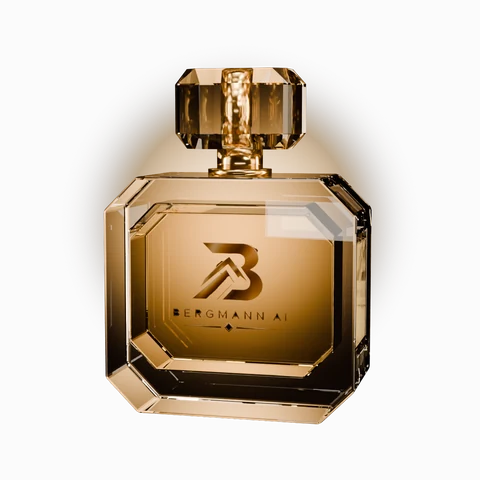
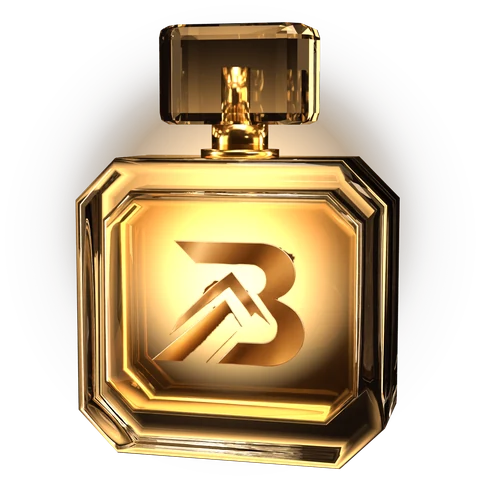
Vorlage Parfum: Flakons wie im Video (Glühen, Form, großes Zeichen)
Rückmeldung des Inhabers (26.11.2026): Die Flakons sollen so aussehen
wie im Video.

- Kartenflakons mit schräg abgeschnittenen Ecken und dicken, weich
  gerundeten Glaskanten, die golden glühen
- Füllung leuchtet von innen (in der Mitte am hellsten), satte Farben
  statt blasser Töne; kein heller Lichtreflex mehr über dem Zeichen
- Auf den Karten nur das B, groß wie das Zeichen im Video; klarer,
  höherer Kristallverschluss; Flakon füllt die Karte stärker aus
- Hero-Flakon und Standbild neu gerendert

Claude-Session: https://claude.ai/code/session_019nyCnVepV9BWLf1fmYvV7T

diff --git a/vorlagen/parfum/_werkzeuge/blender/flakon.py b/vorlagen/parfum/_werkzeuge/blender/flakon.py
@@ -15,22 +15,23 @@ from mathutils import Vector
 
 HERE = os.path.dirname(os.path.abspath(__file__))
 
-# Füllungen: Farbe für Volume Absorption (je heller ein Kanal, desto weniger wird er geschluckt) und Dichte
+# Füllungen: Absorption (je heller ein Kanal, desto weniger wird er geschluckt), Dichte, Leuchten von innen
+# (Farbe, Stärke). Das Leuchten ist in der Mitte am stärksten, wie die von hinten durchleuchteten Flakons im Video.
 LIQUIDS = {
-    'hero':    ((0.92, 0.36, 0.16), 20.0),
-    'or':      ((0.98, 0.76, 0.36), 11.0),
-    'noir':    ((0.60, 0.40, 0.26), 22.0),
-    'ambre':   ((0.97, 0.62, 0.26), 11.0),
-    'rose':    ((0.98, 0.66, 0.50), 9.0),
-    'fumee':   ((0.80, 0.70, 0.56), 9.0),
-    'lumiere': ((0.995, 0.95, 0.78), 6.0),
+    'hero':    ((0.88, 0.26, 0.10), 12.0, (1.0, 0.32, 0.06), 9.0),
+    'or':      ((0.95, 0.52, 0.16), 7.0, (1.0, 0.55, 0.16), 20.0),
+    'noir':    ((0.52, 0.32, 0.20), 16.0, (0.95, 0.38, 0.10), 5.0),
+    'ambre':   ((0.93, 0.42, 0.13), 8.0, (1.0, 0.42, 0.09), 17.0),
+    'rose':    ((0.97, 0.52, 0.42), 7.0, (1.0, 0.48, 0.32), 16.0),
+    'fumee':   ((0.78, 0.62, 0.46), 8.0, (0.95, 0.64, 0.38), 10.0),
+    'lumiere': ((0.99, 0.86, 0.58), 5.0, (1.0, 0.82, 0.48), 13.0),
 }
 FORMS = {
     # Breite, Höhe, Tiefe, Fasen vorn (Ecken der Vorderseite), Fasen senkrecht, Wände, Boden, Schulter, Füllstand
     'hero':  dict(w=0.78, h=1.12, d=0.38, cf=0.0, cv=0.06, wall=0.045, wfb=0.045, base=0.17, top=0.09, fill=0.95,
                   cap=(0.42, 0.28, 0.27), capcv=0.07, capbev=0.055, capcol=((0.93, 0.48, 0.28), 10.0)),
-    'karte': dict(w=0.96, h=0.9, d=0.42, cf=0.13, cv=0.035, wall=0.085, wfb=0.06, base=0.16, top=0.1, fill=0.95,
-                  cap=(0.5, 0.3, 0.32), capcv=0.08, capbev=0.06, capcol=((0.99, 0.95, 0.86), 2.0)),
+    'karte': dict(w=0.96, h=0.92, d=0.42, cf=0.0, cv=0.0, rund=0.13, wall=0.085, wfb=0.065, base=0.13, top=0.1, fill=0.97,
+                  cap=(0.48, 0.3, 0.3), capcv=0.06, capbev=0.035, capcol=((0.995, 0.97, 0.9), 1.0)),
 }
 
 
@@ -71,6 +72,35 @@ def prism(name, w, h, d, cf, cv, bevel=0.0, seg=2):
     return ob
 
 
+def round_prism(name, w, h, d, r, bevel=0.0, seg=4, corner_seg=1):
+    """Vorderseite als Rechteck mit runden Ecken (Radius r), in die Tiefe gezogen, Kanten weich gerundet."""
+    bm = bmesh.new()
+    r = min(r, w * 0.45, h * 0.45)
+    pts = []
+    for cx, cz, a0 in ((w/2 - r, -h/2 + r, -90), (w/2 - r, h/2 - r, 0), (-w/2 + r, h/2 - r, 90), (-w/2 + r, -h/2 + r, 180)):
+        for k in range(corner_seg + 1):
+            a = math.radians(a0 + 90 * k / corner_seg)
+            pts.append((cx + r * math.cos(a), cz + r * math.sin(a)))
+    vs = [bm.verts.new((x, -d/2, z)) for x, z in pts]
+    f = bm.faces.new(vs)
+    res = bmesh.ops.extrude_face_region(bm, geom=[f])
+    moved = [g for g in res['geom'] if isinstance(g, bmesh.types.BMVert)]
+    bmesh.ops.translate(bm, vec=Vector((0, d, 0)), verts=moved)
+    bmesh.ops.recalc_face_normals(bm, faces=bm.faces)
+    if bevel > 0:
+        # nur die Kanten von Vorder- und Rückseite runden (die Rundung der Ecken ist schon da)
+        rim = [e for e in bm.edges if abs(e.verts[0].co.y - e.verts[1].co.y) < 1e-6 and abs(abs(e.verts[0].co.y) - d/2) < 1e-6]
+        bmesh.ops.bevel(bm, geom=rim, offset=bevel, segments=seg, affect='EDGES', profile=0.5, clamp_overlap=True)
+    me = bpy.data.meshes.new(name)
+    bm.to_mesh(me)
+    bm.free()
+    ob = bpy.data.objects.new(name, me)
+    bpy.context.collection.objects.link(ob)
+    for p in me.polygons:
+        p.use_smooth = True
+    return ob
+
+
 def apply_boolean(target, cutter):
     mod = target.modifiers.new('cut', 'BOOLEAN')
     mod.operation = 'DIFFERENCE'
@@ -104,6 +134,41 @@ def glass(name, absorb=None, ior=1.5):
     return m
 
 
+def liquid(name, spec, half):
+    """Füllung: klare Oberfläche (Brechung), im Volumen Absorption und ein Leuchten, das zur Mitte zunimmt."""
+    absorb, dens, glow, strength = spec
+    m = glass(name, absorb=None, ior=1.36)
+    nt = m.node_tree
+    out = nt.nodes['Material Output']
+    vab = nt.nodes.new('ShaderNodeVolumeAbsorption')
+    vab.inputs['Color'].default_value = (*absorb, 1)
+    vab.inputs['Density'].default_value = dens
+    em = nt.nodes.new('ShaderNodeEmission')
+    em.inputs['Color'].default_value = (*glow, 1)
+    tc = nt.nodes.new('ShaderNodeTexCoord')
+    mp = nt.nodes.new('ShaderNodeMapping')
+    mp.inputs['Scale'].default_value = (1 / half[0], 1 / half[1], 1 / half[2])
+    mp.inputs['Location'].default_value = (0, 0, -0.12)
+    gr = nt.nodes.new('ShaderNodeTexGradient')
+    gr.gradient_type = 'SPHERICAL'
+    pw = nt.nodes.new('ShaderNodeMath')
+    pw.operation = 'POWER'
+    pw.inputs[1].default_value = 1.35
+    mul = nt.nodes.new('ShaderNodeMath')
+    mul.operation = 'MULTIPLY'
+    mul.inputs[1].default_value = strength
+    nt.links.new(tc.outputs['Object'], mp.inputs['Vector'])
+    nt.links.new(mp.outputs['Vector'], gr.inputs['Vector'])
+    nt.links.new(gr.outputs['Fac'], pw.inputs[0])
+    nt.links.new(pw.outputs['Value'], mul.inputs[0])
+    nt.links.new(mul.outputs['Value'], em.inputs['Strength'])
+    add = nt.nodes.new('ShaderNodeAddShader')
+    nt.links.new(vab.outputs['Volume'], add.inputs[0])
+    nt.links.new(em.outputs['Emission'], add.inputs[1])
+    nt.links.new(add.outputs['Shader'], out.inputs['Volume'])
+    return m
+
+
 def gold(name, rough=0.16):
     m, _ = principled(name, **{'Base Color': (1.0, 0.70, 0.30, 1), 'Metallic': 1.0, 'Roughness': rough})
     return m
@@ -120,12 +185,12 @@ def emblem_material(img_path):
     tex.interpolation = 'Cubic'
     nt.links.new(tex.outputs['Color'], bsdf.inputs['Base Color'])
     nt.links.new(tex.outputs['Alpha'], bsdf.inputs['Alpha'])
-    bsdf.inputs['Metallic'].default_value = 0.85
-    bsdf.inputs['Roughness'].default_value = 0.24
+    bsdf.inputs['Metallic'].default_value = 0.35
+    bsdf.inputs['Roughness'].default_value = 0.32
     # etwas Eigenleuchten, damit die Prägung im Glas so hell steht wie im Video
     if 'Emission Color' in bsdf.inputs:
         nt.links.new(tex.outputs['Color'], bsdf.inputs['Emission Color'])
-        bsdf.inputs['Emission Strength'].default_value = 0.35
+        bsdf.inputs['Emission Strength'].default_value = 1.5
     # Prägung: Kante aus der Transparenz
     bump = nt.nodes.new('ShaderNodeBump')
     bump.inputs['Strength'].default_value = 0.6
@@ -154,13 +219,18 @@ def area(name, size, size_y, loc, target, energy, color):
 def build(form, liquid_key):
     F = FORMS[form]
     w, h, d = F['w'], F['h'], F['d']
+    rund = F.get('rund', 0)
     parts = {}
-    # Glaskörper mit Hohlraum
-    body = prism('Glas', w, h, d, F['cf'], F['cv'], bevel=0.012, seg=3)
     cw, cd = w - 2 * F['wall'], d - 2 * F['wfb']
     ch = h - F['base'] - F['top']
     k = cw / w
-    cav = prism('Hohlraum', cw, ch, cd, F['cf'] * k, F['cv'] * k, bevel=0.008, seg=2)
+    # Glaskörper mit Hohlraum: Karte mit runden Ecken und weichen dicken Kanten, Hero mit Fasen
+    if rund:
+        body = round_prism('Glas', w, h, d, rund, bevel=0.05, seg=5)
+        cav = round_prism('Hohlraum', cw, ch, cd, rund * k * 0.85, bevel=0.02, seg=3)
+    else:
+        body = prism('Glas', w, h, d, F['cf'], F['cv'], bevel=0.012, seg=3)
+        cav = prism('Hohlraum', cw, ch, cd, F['cf'] * k, F['cv'] * k, bevel=0.008, seg=2)
     cav.location.z = -h / 2 + F['base'] + ch / 2
     bpy.context.view_layer.objects.active = cav
     apply_boolean(body, cav)
@@ -169,21 +239,27 @@ def build(form, liquid_key):
     for poly in body.data.polygons:
         poly.material_index = 0
     parts['body'] = body
-    # Füllung (etwas kleiner als der Hohlraum, bis zum Füllstand)
+    # Füllung (etwas kleiner als der Hohlraum, bis zum Füllstand), leuchtet von innen
     lh = ch * F['fill']
-    liq = prism('Fuellung', cw - 0.006, lh - 0.006, cd - 0.006, F['cf'] * k, F['cv'] * k, bevel=0.007, seg=2)
+    lw_, ld_ = cw - 0.006, cd - 0.006
+    if rund:
+        liq = round_prism('Fuellung', lw_, lh - 0.006, ld_, rund * k * 0.88, bevel=0.026, seg=4)
+    else:
+        liq = prism('Fuellung', lw_, lh - 0.006, ld_, F['cf'] * k, F['cv'] * k, bevel=0.007, seg=2)
     liq.location.z = -h / 2 + F['base'] + 0.003 + (lh - 0.006) / 2
-    liq.data.materials.append(glass('Duft', absorb=LIQUIDS[liquid_key], ior=1.36))
+    liq.data.materials.append(liquid('Duft', LIQUIDS[liquid_key], (lw_ / 2, ld_ * 1.2, (lh - 0.006) / 2)))
     parts['liquid'] = liq
-    # Logo innen auf der Vorderseite (im Spalt zwischen Glas und Füllung)
-    mat, (iw, ih) = emblem_material(os.path.join(HERE, 'logo-etikett.png'))
-    lw = cw * (0.56 if form == 'karte' else 0.6)
+    # Zeichen innen auf der Vorderseite (im Spalt zwischen Glas und Füllung):
+    # auf den Karten nur das B, groß wie das Zeichen im Video; auf dem Hero-Flakon das ganze Logo
+    img = 'logo-zeichen.png' if form == 'karte' else 'logo-etikett.png'
+    mat, (iw, ih) = emblem_material(os.path.join(HERE, img))
+    lw = cw * (0.62 if form == 'karte' else 0.66)
     bpy.ops.mesh.primitive_plane_add(size=1)
     lab = bpy.context.active_object
     lab.name = 'Logo'
     lab.scale = (lw, lw * ih / iw, 1)
     lab.rotation_euler = (math.radians(90), 0, 0)
-    lab.location = (0, -cd / 2 + 0.0016, liq.location.z + lh * (0.04 if form == 'karte' else 0.06))
+    lab.location = (0, -cd / 2 + 0.0016, liq.location.z + lh * (0.03 if form == 'karte' else 0.06))
     lab.data.materials.append(mat)
     parts['label'] = lab
     # Goldhals und Ring
@@ -195,13 +271,13 @@ def build(form, liquid_key):
     ring = bpy.context.active_object
     ring.data.materials.append(gold('Gold2', 0.2))
     bpy.ops.object.shade_smooth()
-    # Verschluss: facettierter Kristall
+    # Verschluss: Kristallblock (Karte klar, Hero rubinrot)
     cx, chh, cdd = F['cap']
-    cap = prism('Verschluss', cx, chh, cdd, F['capcv'] * 0.0, F['capcv'], bevel=F['capbev'], seg=1)
+    cap = prism('Verschluss', cx, chh, cdd, 0.0, F['capcv'], bevel=F['capbev'], seg=1 if form == 'hero' else 2)
     cap.location.z = h / 2 + 0.1 + chh / 2
     cap.data.materials.append(glass('Verschluss', absorb=F['capcol'], ior=1.54))
     if form == 'karte':
-        bpy.ops.mesh.primitive_cylinder_add(vertices=48, radius=0.06, depth=chh * 0.72, location=(0, 0, cap.location.z))
+        bpy.ops.mesh.primitive_cylinder_add(vertices=48, radius=0.045, depth=chh * 0.55, location=(0, 0, h / 2 + 0.1 + chh * 0.3))
         core = bpy.context.active_object
         core.data.materials.append(gold('Kern', 0.18))
         bpy.ops.object.shade_smooth()
@@ -238,11 +314,12 @@ def scene_setup(size_x, size_y, samples):
     sc.render.image_settings.color_mode = 'RGB'
     sc.render.threads_mode = 'FIXED'
     sc.render.threads = os.cpu_count() or 4
+    # 'Standard' hält die Farben satt (Orange bleibt Orange), wie bei den Flakons im Video
+    sc.view_settings.view_transform = 'Standard'
     try:
-        sc.view_settings.view_transform = 'AgX'
-        sc.view_settings.look = 'AgX - Medium High Contrast'
+        sc.view_settings.look = 'Medium High Contrast'
     except Exception:
-        sc.view_settings.view_transform = 'Filmic'
+        pass
     sc.view_settings.exposure = 0.0
     world = bpy.data.worlds.new('Welt')
     world.use_nodes = True
@@ -308,14 +385,13 @@ def softbox(name, w, h, loc, target, strength, color):
 
 def lights(form):
     t = (0, 0, 0.2)
-    softbox('SpiegelLinks', 1.2, 4.0, (-3.0, -1.5, 0.5), t, 2.5, (1.0, 0.8, 0.6))
-    softbox('SpiegelRechts', 1.2, 4.0, (3.0, -1.2, 0.8), t, 3.0, (1.0, 0.75, 0.5))
-    softbox('SpiegelOben', 4.0, 2.0, (0.0, -1.0, 3.5), t, 2.0, (1.0, 0.88, 0.7))
-    area('Key', 2.2, 1.3, (2.6, -3.0, 3.2), t, 160, (1.0, 0.86, 0.7))
+    softbox('SpiegelLinks', 1.2, 4.0, (-3.0, -1.5, 0.5), t, 3.0, (1.0, 0.62, 0.28))
+    softbox('SpiegelRechts', 1.2, 4.0, (3.0, -1.2, 0.8), t, 3.4, (1.0, 0.58, 0.24))
+    softbox('SpiegelOben', 4.0, 2.0, (0.0, -1.0, 3.5), t, 2.2, (1.0, 0.72, 0.4))
+    area('Key', 2.2, 1.3, (2.6, -3.0, 3.2), t, 160, (1.0, 0.74, 0.46))
     area('KanteLinks', 0.35, 3.5, (-2.4, -0.4, 0.4), t, 90, (0.62, 0.9, 1.0) if form == 'hero' else (1.0, 0.82, 0.6))
     area('KanteRechts', 0.35, 3.5, (2.5, 0.2, 0.3), t, 100, (1.0, 0.62, 0.3))
     area('Oben', 1.2, 1.2, (0.0, -0.6, 3.0), (0, 0, 0.6), 40, (1.0, 0.9, 0.78))
-    area('Front', 3.0, 0.25, (0.0, -3.4, 0.0), (0, 0, 0.1), 18, (1.0, 0.9, 0.8))
 
 
 def camera(form, total, size_x, size_y):
@@ -327,7 +403,7 @@ def camera(form, total, size_x, size_y):
     bpy.context.scene.camera = cam
     aspect = size_x / size_y
     cz = (total) / 2 - FORMS[form]['h'] / 2      # Mitte der ganzen Höhe
-    vis_h = total * (1.42 if form == 'karte' else 1.1)
+    vis_h = total * (1.14 if form == 'karte' else 1.1)
     fov_v = 2 * math.atan((36 / aspect) / 2 / 85) if aspect >= 1 else 2 * math.atan(36 / 2 / 85)
     if aspect >= 1:
         dist = (vis_h / 2) / math.tan(fov_v / 2)
@@ -356,6 +432,7 @@ def main():
     liquid = 'hero' if a.form == 'hero' else a.duft
     sx, sy = (a.size, a.size) if a.form == 'karte' else (int(a.size * 0.66), a.size)
     sc = scene_setup(sx, sy, a.samples)
+    sc.view_settings.exposure = -0.35 if a.form == 'karte' else -0.45
     parts, total = build(a.form, liquid)
     # alles, was zum Flakon gehört, an einen Leerkörper hängen und drehen
     piv = bpy.data.objects.new('Flakon', None)

diff --git a/vorlagen/parfum/_werkzeuge/blender/render.py b/vorlagen/parfum/_werkzeuge/blender/render.py
@@ -33,6 +33,11 @@ def compose(col, mask, halo):
     if halo:
         lum = col @ np.array([0.3, 0.59, 0.11], np.float32)
         glow = np.clip(lum / 0.42, 0, 1) ** 1.3 * halo
+        # zum Bildrand hin auslaufen lassen, damit der Schein keine Kante bekommt
+        hh, ww = a.shape
+        y, x = np.mgrid[0:hh, 0:ww]
+        r = np.sqrt(((x - ww / 2) / (ww / 2)) ** 2 + ((y - hh / 2) / (hh / 2)) ** 2)
+        glow *= np.clip((1.0 - r) / 0.3, 0, 1)
         a = np.maximum(a, glow)
     rgb = np.where(a[..., None] > 0, col, 0)
     return Image.fromarray((np.dstack([rgb, a]) * 255 + 0.5).astype(np.uint8), 'RGBA')
